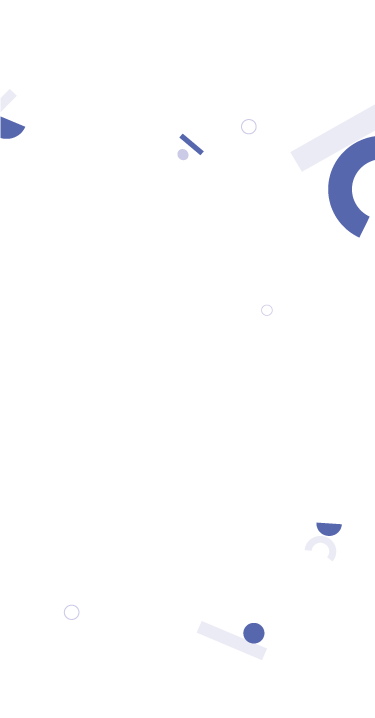
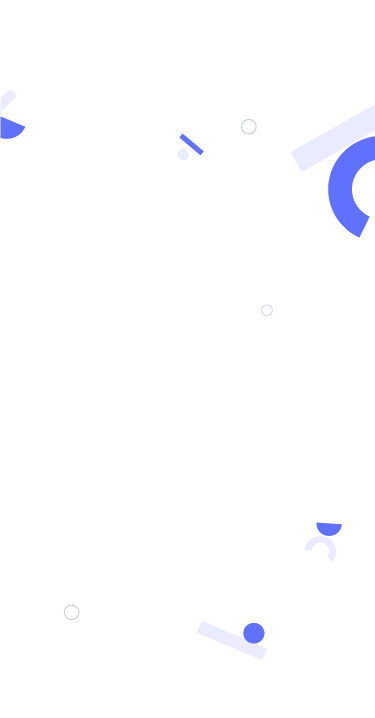
flexbox
add flexbox
background change
correct limpers

diff --git a/index.html b/index.html
@@ -5,16 +5,19 @@
   <meta charset="UTF-8">
   <meta http-equiv="X-UA-Compatible" content="IE=edge">
   <meta name="viewport" content="width=device-width, initial-scale=1.0">
-  <title>Mobile Portfolio David</title>
+  <title>Mobile Portfolio</title>
   <link rel="stylesheet" href="style.css">
 </head>
 
 <body>
   <header>
+
     <section class="top-nav">
-      <div>
-       <a href="https://www.linkedin.com/in/david-verde-3349b114b/e"> <img id="mylogo" src="./Image/logo-david-nuevo-2021.png" alt="logo"> </a>
-      </div>
+
+
+      <a href="https://www.linkedin.com/in/david-verde-3349b114b/e"> <img id="mylogo"
+          src="./Image/logo-david-nuevo-2021.png" alt="logo"> </a>
+      
       <nav>
         <label for="menu-toggle">MY FIRST WEB PAGE</label>
         <input id="menu-toggle" type="checkbox" />
@@ -28,22 +31,24 @@
         </ul>
       </nav>
     </section>
+
   </header>
 
   <main>
     <section id="background">
 
-      <h2 id="name">I'm David Verde! Glad to see <br> you! </h2>
+      <h1 id="name">I'm David Verde! Glad to see <br> you! </h1>
       <p id="content">I'm a software developer! I can help you
         build a product ,feature or website Look
         through some of my work and
         experience! If you like what you see and
         have a project you need coded, don't
         hestiate to contact me. </p>
-      <p id="connect">LET'S CONNECT</p>
+        
+        <p> <a href="https://www.linkedin.com/in/david-verde-3349b114b/e" id="connect">LET'S CONNECT </a>
+        </p>
 
-      <div class="icons">
-        <ul>
+      <ul class="icons">
           <li>
             <a href="https://twitter.com/UnyieldingOne">
               <img src="./Image/twitter.svg" alt="twitter"></a>
@@ -67,7 +72,7 @@
 
 
         </ul>
-      </div>
+      
     </section>
 
   </main>

diff --git a/style.css b/style.css
@@ -1,6 +1,7 @@
 * {
   font-family: Railway, sans-serif;
   margin: 0;
+  padding: 0;
 }
 
 .top-nav {
@@ -124,7 +125,7 @@
 
 #mylogo {
   height: 100px;
-  padding-top: 6px;
+  padding: -1px;
 }
 
 #name {
@@ -153,8 +154,8 @@
   font-weight: 500;
   font-size: 16px;
   color: #7f8cff;
-  padding-bottom: 14px;
-  padding-top: 9px;
+  padding-bottom: 1px;
+  padding-top: 1px;
 }
 
 #connect:hover {
@@ -162,18 +163,21 @@
 }
 
 .icons {
-  list-style: none;
-  display: inline-flex;
+  display: flex;
+  flex-direction: row;
+  width: 100%;
 }
 
-.icons ul li {
+.icons li {
+  padding-left: 1px;
+  margin: 10px 1px;
+  list-style: none;
   list-style-type: none;
-  display: inline;
-  padding-right: 20px;
+  align-items: flex-start;
 }
 
 .icons ul {
-  padding: 1px;
+  padding: -1px;
 }
 
 #vector {
@@ -182,8 +186,8 @@
 }
 
 main {
-  background-image: url("/Image/background.png");
-  background-color: white;
+  background-image: url("./Image/background.png");
+  background-color: rgb(255 255 255);
   background-repeat: no-repeat;
   background-position: 0 -80px;
 }
